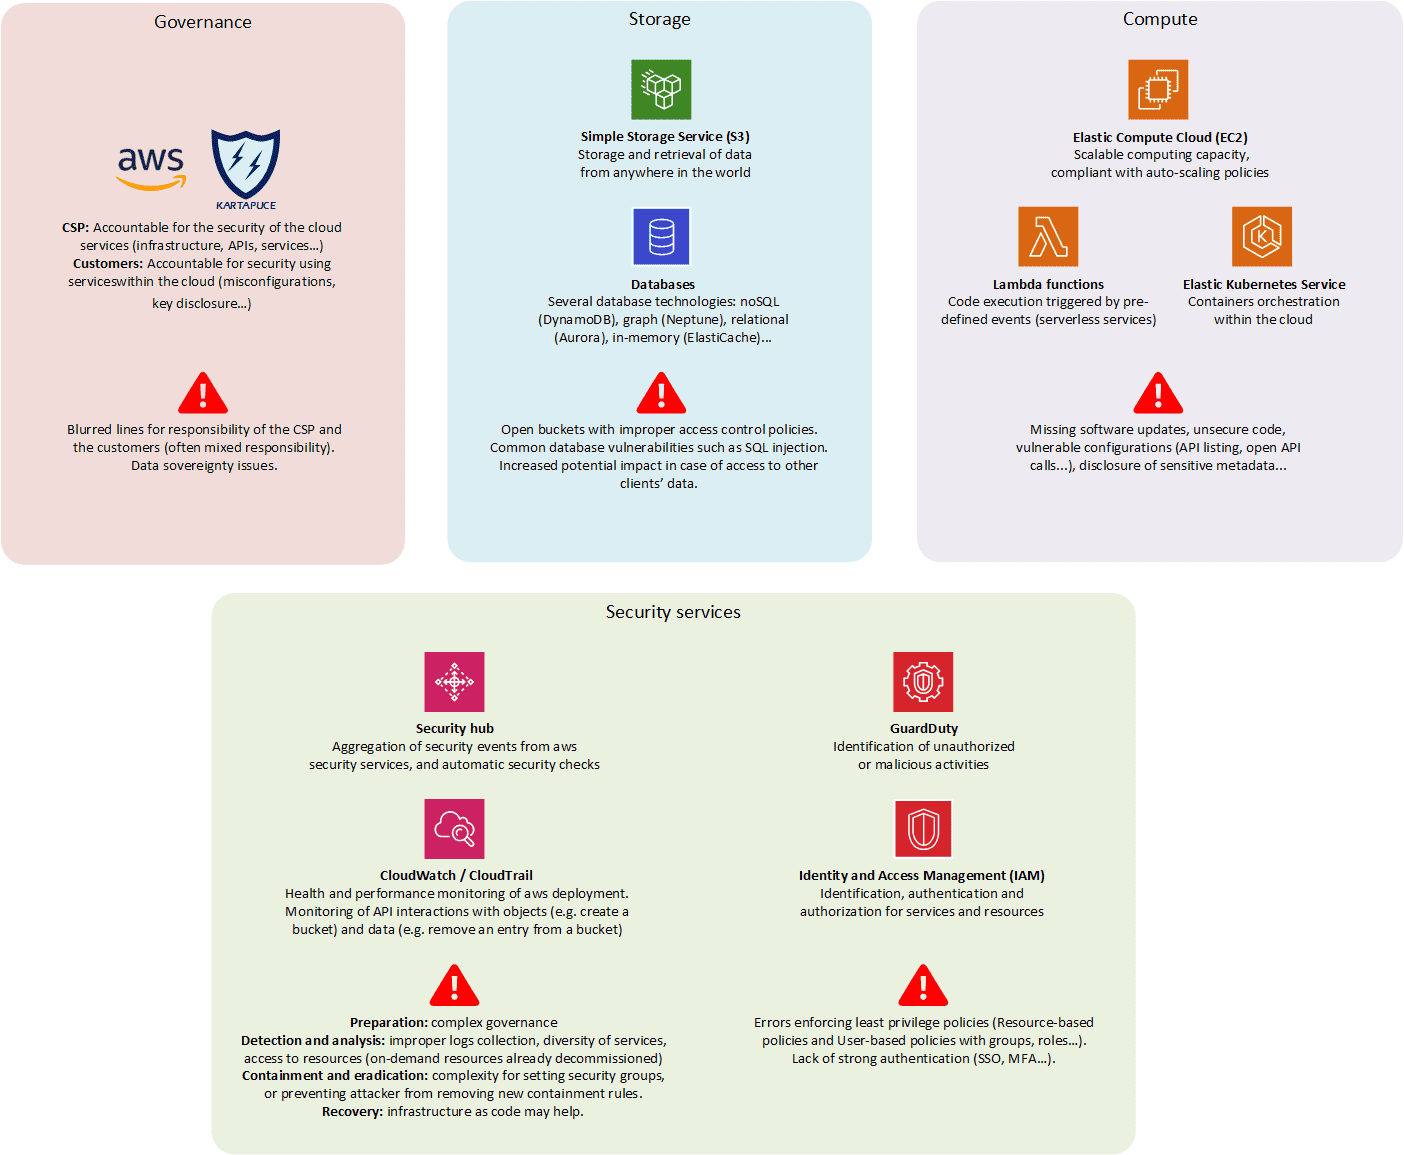
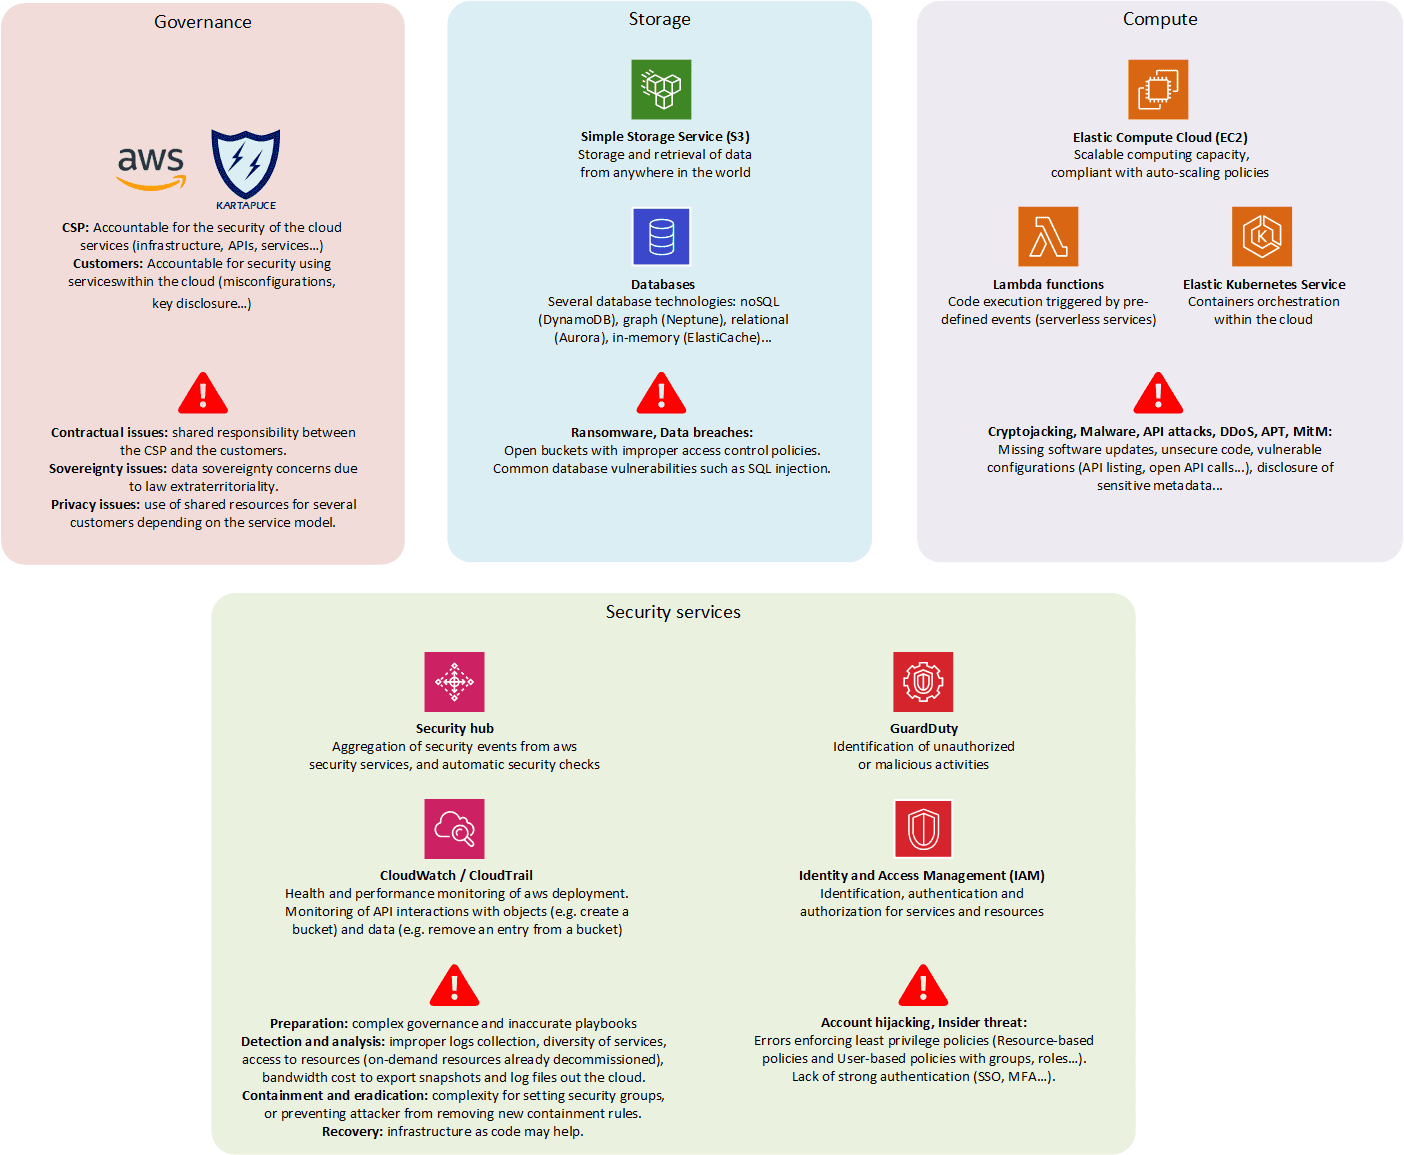
Update content of cloud service page

diff --git a/_architecture/cloud services.md b/_architecture/cloud services.md
@@ -27,10 +27,15 @@ Let’s clarify some wording commonly used by **Cloud Service Providers** (CSP).
 
 Let’s start with available services. In all cases, it all comes down to offering on-demand resources. But depending on the model, these resources can be hardware, software, or even a full development environment:
 - **Infrastructure as a Service** (IaaS): Provision of hardware resources. *I’ve got all the CPU that you need.*
-- **Platform as a Service** (PaaS): Provision of a full development environment. *What do you want to build today?* :wrench:
+- **Containers as a Service** (CaaS): Build containers images. Orchestrate and manage instances. *Will you scale that container for me ?* :whale:
+- **Platform as a Service** (PaaS): Provision of a full development environment. *What do you want to build today?*
+- **Function as a Service** (FaaS): Event-based execution of stateless code. *If that, run that. And that.* 
 - **Software as a Service** (SaaS): Delivery of everything required for running a software. This is the most widely used service model. *Keep calm and pay the software licence.*
 
 {% include gallery id="gallery1" type="center" %}
+
+**Note:** As a general rule, the "**as a Service**" model encompasses any service that is provided by a second party. So that you can focus on the business, and abstract all the underlying complexity. And then marketing took it all. :heart: Backup as a Service (BaaS), Identity as a Service (IDaaS), Security as a Service (SECaaS), Desktop as a Service (Daas)... Pretty much anything you want. :see_no_evil:
+{: .notice--warning}
 
 ## Deployment models
 
@@ -52,23 +57,41 @@ The second aspect concerns the hosting strategy.
 - **On-premise datacentre**: Hosting your own datacentre without cloud services. *Sorry, not interested in your cloudy business.* :european_castle:
 - **On-premise private cloud**: Private cloud directly hosted within the customer facility. *I want to keep it home.*
 - **Hosted cloud**: The most common hosting strategy, where services are directly hosted by the CSP. *I’ll just handle it remotely.*
-- **Multi-cloud**: In order to avoid vendor lock-in, the customer decides to benefit from several CSP services. *I still want it all.*
+- **Multi-cloud**: In order to avoid vendor lock-in, the customer decides to benefit from several CSP services. *I still want it all.* :stuck_out_tongue_winking_eye:
 
 {% include gallery id="gallery3" type="center" %}
 
+**Note:** Most of the time, a company have a multi-cloud strategy due to regulation constraints, or successive acquisitions of companies. Multi-cloud increases the governance complexity, but it can also be leveraged in order to obtain competitive prices. :pray:
+{: .notice--warning}
+
 ## Risk and opportunities
 
-Moving to the cloud is not always the best strategy. But customers may benefit from several advantages such as:
-- Flexibility: the infrastructure is provided rapidly. It is reliable and scalable depending on business needs.
-- Simplicity: the installation, administration, security of the infrastructure can be delegated to competent CSPs in order to focus on creating business value.
-- Cost: the bill is more predictable without fixed entry fees, and matches business needs with pay-as-you-go pricing. But nothing prevents a CSP from increasing the pricing. :moneybag:
+Moving to the cloud is not an end in itself, and it is not a binary decision. The strategy shall only be based on the business value expected from cloud services:
+- **Flexibility**: the infrastructure is provided rapidly. It has *hyperscale* features, which permit to scale rapidly for short-term needs, or traffic bursts. :chart_with_upwards_trend:
+- **Resiliency**: better tolerance to unexpected disruptions of service (due to attacks or failures) in order to ensure business continuity.
+- **Simplicity**: part of the installation, administration, and security of the infrastructure can be delegated to competent CSPs. But we still face the cloud experts shortage.:computer:
+- **New services**: CSPs provide a lot of services that could create business value: analytics, machine learning... But stay focus on the expected output from  all these tools.
+
+But any strategy that is solely based on the following indicators will fail:
+- **Cost**: the bill is more predictable without fixed entry fees, and matches business needs with pay-as-you-go pricing. But nothing prevents a CSP from increasing the pricing. :moneybag: And some services may be cheaper with on-premise datacenters.
+- **Delegation of responsibility**: the use of cloud services creates a shared responsiblity, which might be tricky to understand depending on the service model. The CSP may be responsible for the security *of the cloud*, but the customers remain accountable for anything that happens *within the cloud*.
+
+**Note:** Moving to the cloud requires to adopt a new *cloud mindset* in order to benefit from its capacities. A generalized *lift and shift* approach would probably fail. Migrating to *cloud-native* applications, rethinking the governance, updating the risk-analysis, rewriting the playbooks.. It requires a lot of time and expertise. :coffee:
+{: .notice--warning}
+
+## Security breaches
 
 This model highlights some AWS services along with security breach examples.
 
-**(Reductive) punchline:** *There is no cloud, it’s just someone else’s computer.* :loudspeaker: Yes, but cloud service is also the flexibility to select the CSP nationality and legislation, the deployment model, the sensitivity of shared data and applications…
-{: .notice--warning}
-
 {% include gallery id="gallery4" type="center" %}
+
+<div class="notice--warning" markdown="1">
+**Note:** A few punchlines to conclude :boom:  
+- *There is no cloud, it’s just someone else’s computer.* :loudspeaker: Yes, but cloud service is also the flexibility to select the CSP nationality and legislation, the deployment model, the sensitivity of shared data and applications…  
+- *Easy to get in, hard to get out.* That's probably the purpose of any CSP. :dollar: But some service models such as CaaS may reduce the stickyness to the CSP.  
+- *Keep the technical debt. Pay the interest.* Migrating a technical debt to the cloud won't solve any problem. But it may make it even more costly.  
+- *Your data is my data. :us:* The **FISA 702** and the extraterritoriality of the **Cloud Act**, adopted by the United States Congress, raise major issues for data privacy, and are not compatible with data sovereignty. And all the CSP leaders are in the target: Amazon Web Services, Microsoft Azure, Google Cloud Platform, Oracle Cloud...
+</div>
 
 **Note:** Based on original learning material from [OVHcloud](https://www.ovhcloud.com/) engineers.
 {: .notice--info}
